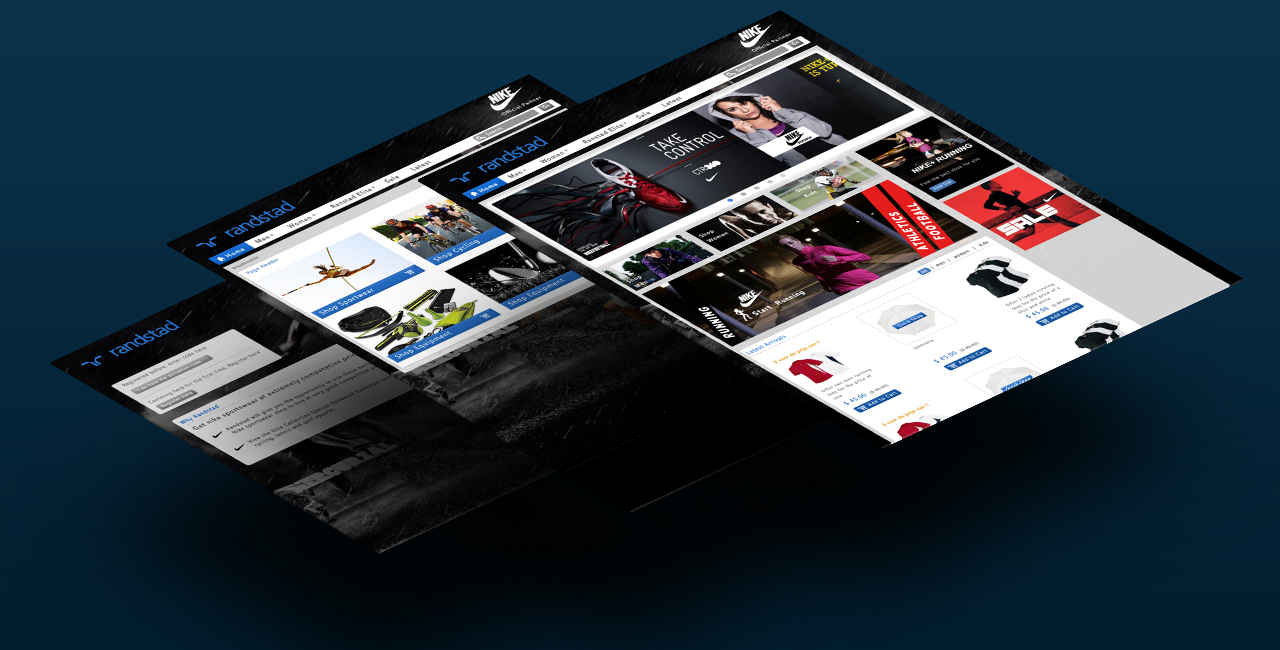
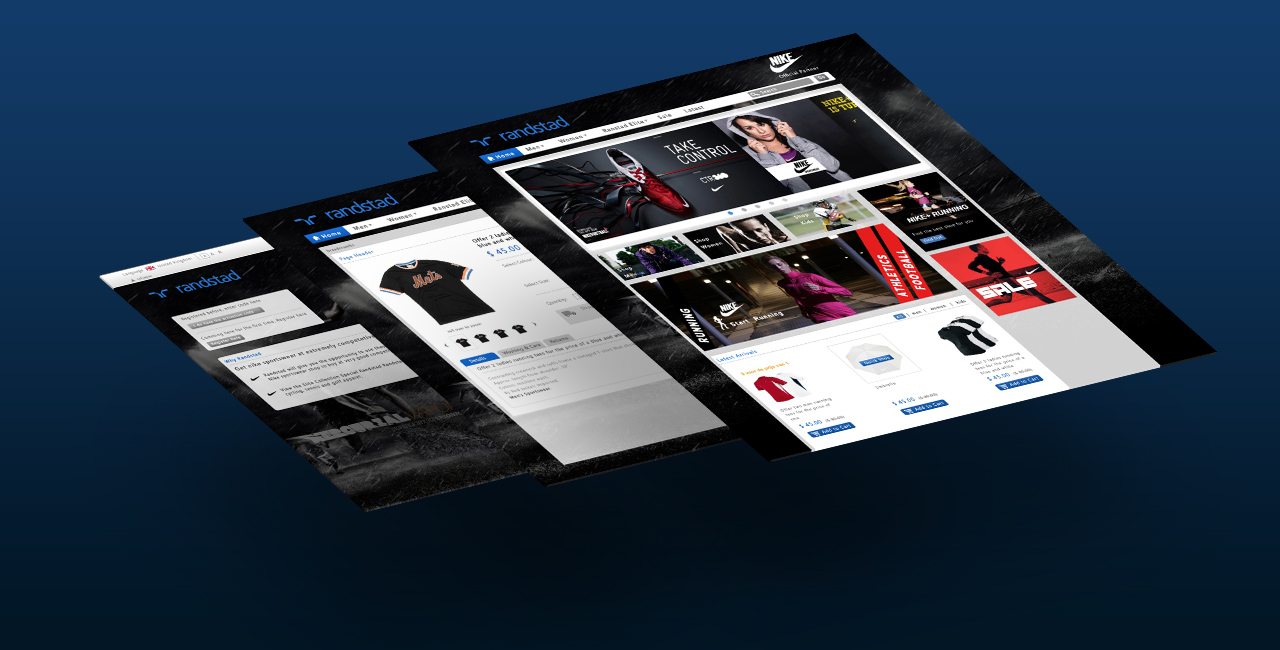
adding one more project

diff --git a/slideshare-emails.html b/slideshare-emails.html
@@ -58,7 +58,7 @@
 
   
   <!-- ========== HEADER SECTION ========== -->
-  <div id="itemwrap" class="private-upload">
+  <div id="itemwrap" class="ss-emails">
     <div class="container">
       <h1>Responsive emails</h1>
       <h2>Slideshare responsive emails</h2>
@@ -70,88 +70,68 @@
   <div id="g">
     <div class="container">
       <div class="row">
-        <h3>Randstad ecommerce web-store</h3>
+        <h3>SlideShare responsive emails</h3>
         <div class="col-lg-7 desc">
           <h4>About This Project</h4>
-          <p>Randstad wanted an internal webstore for its employees so that they can purchase Nike's sports related goodies. In order to provide rewards to its employees users can use the web store to purchase fitness related items. I have currently use the the price (euro) which could be later switched to rewards/points.</p>
+          <p>We have seen a huge shift over years of people using our app on mobile devices. Although we have an mobile optimized web version but we primarily our mail were desktop optimized and experience over mobile was not optimized.</p>
+          <p>I worked with the design team in creation of the <strong>assets/components</strong> of the design. Also as most of our mails have similar componets such as <strong>content cards, user cards</strong> and other components we planned to implement it in such a way that <strong>components can be reused</strong> and creation of new emails is easy.</p>
         </div>
         <div class="col-lg-5 desc desc-b">
           <h4>Project Details</h4>
           <p>
-            <i class="fa fa-user"></i>&nbsp;Eperium<br/>
-            <i class="fa fa-tag"></i>&nbsp;Visual Design, Interaction Design<br/>
-            <i class="fa fa-calendar"></i>&nbsp;Oct 2012<br/>
+            <i class="fa fa-user"></i>&nbsp;SlideShare<br/>
+            <i class="fa fa-tag"></i>&nbsp;Visual Design, UI development<br/>
+            <i class="fa fa-calendar"></i>&nbsp;Jan '12 &ndash; Aug '12<br/>
             <i class="fa fa-globe"></i>&nbsp;www.slideshare.com<br/>
           </p>
         </div>
       </div>
     </div><!-- /container -->
   </div><!-- /g -->
-  
-  <!-- ========== CAROUSEL / DESCRIPTION - DARK GREY SECTION ========== -->
+
+
   <div id="dg">
     <div class="container">
       <div class="row">
-        <div class="col-lg-8 col-lg-offset-2">
-          <h3>Process</h3>
-          <p>Although the store was any <strong>ecommerce store</strong> but we wanted to focus on health and fitness. Also we wanted to users to explore sports and outdoor activities. The checkout was a planned simple and </p>
-          
-        </div>
-      </div>
-      <div class="row">
-        <div class="col-lg-8 col-lg-offset-2">
-          <h4>Final flow for private uploads in My Uploads section</h4>
-          <div id="carousel-example-generic" class="carousel slide" data-keyboard="true"> 
-            <!-- Indicators -->
-            <ol class="carousel-indicators">
-              <li data-target="#carousel-example-generic" data-slide-to="0" class="active"></li>
-              <li data-target="#carousel-example-generic" data-slide-to="1"></li>
-              <li data-target="#carousel-example-generic" data-slide-to="2"></li>
-              <li data-target="#carousel-example-generic" data-slide-to="3"></li>
-              <li data-target="#carousel-example-generic" data-slide-to="4"></li>
-            </ol>
-          
-            <!-- Wrapper for slides -->
-            <div class="carousel-inner">
-              <div class="item active">
-                <img src="assets/img/private-upload/item-01.png" alt="SlideShare myupload public deck">
-              </div>
-              <div class="item">
-                <img src="assets/img/private-upload/item-02.png" alt="Privacy settings confirmation and additional settings">
-              </div>
-              <div class="item">
-                <img src="assets/img/private-upload/item-03.png" alt="Switching private">
-              </div>
-              <div class="item">
-                <img src="assets/img/private-upload/item-04.png" alt="SlideShare switched private">
-              </div>
-              <div class="item">
-                <img src="assets/img/private-upload/item-05.png" alt="Alert message">
-              </div>
-            </div>
+        <p>&nbsp;</p>
+        <div class="col-lg-2"></div>
+          <div class="col-lg-4 desc desc-a">
+            <h4><i class="fa fa-bullseye"></i>&nbsp;The Goal</h4>
+            <p>Ensure email are responsive on all major mobile devices and different mail apps. Increase CTR in the emails for mobile versions. </p>
+            <h4><i class="fa fa-desktop"></i>&nbsp;The Result</h4>
+            <p>We rigorously tested the emails in litmus as well as live testing. Also saw an increase in  engagement in different mobile email clients</p>
           </div>
-        </div>
+          
+          <div class="col-lg-4 desc">
+            <h4><i class="fa fa-bolt"></i>&nbsp;The Idea</h4>
+            <p>Create component that can be reused easily and create mails quickly and iterate on them regularly</p>
+            <h4><i class="fa fa-bar-chart-o"></i> &nbsp;The Statistics</h4>
+            <p>For weekly digest we noticed an <strong>increase of 5%-10% in adjusted CTR in A/B test</strong> with previous design. For contact digest the </p>
+          </div>
+          <div class="col-lg-2"></div>
       </div>
-      <br>
-      <br>
-      <br>  
+    </div><!-- /container -->
+  </div><!-- /g -->
+  
+  <!-- ========== CAROUSEL / DESCRIPTION - DARK GREY SECTION ========== -->
+  <div id="g">
+    <div class="container">
+      <div class="row">
+        <div class="col-lg-8 col-lg-offset-2 left">
+          <p>est</p>
+          
+        </div>
+        
+      </div>
+      
     </div><!-- /container -->
     
-    <div class="container">
 
-      <div class="row">
-        <div class="col-lg-8 col-lg-offset-2">
-          <p>lorep ipsum</p>
-
-        </div>
-      </div>
-
-      <div class="row">
-      <br>
-      <br>
-        <div class="col-lg-4 col-lg-offset-4">
-          <a href="index.html#portfolio" style="font-size:20px;">< <i class="fa fa-th-large"></i> > </a>
-        </div>
+    <div class="row">
+    <br>
+    <br>
+      <div class="col-lg-4 col-lg-offset-4">
+        <a href="index.html#portfolio" style="font-size:20px;">&laquo; <i class="fa fa-th-large"></i> &raquo; </a>
       </div>
     </div>
   </div><!-- /dg -->

diff --git a/randstad-poc.html b/randstad-poc.html
@@ -81,7 +81,7 @@
             <i class="fa fa-user"></i>&nbsp;Eperium<br/>
             <i class="fa fa-tag"></i>&nbsp;Visual Design, Interaction Design<br/>
             <i class="fa fa-calendar"></i>&nbsp;Oct 2012<br/>
-            <i class="fa fa-globe"></i>&nbsp;http://on.be.net/1z57bbo<br/>
+            <i class="fa fa-globe"></i><a href="http://on.be.net/1z57bbo">&nbsp;http://on.be.net/1z57bbo&nbsp;</a><br/>
           </p>
         </div>
       </div>
@@ -92,12 +92,30 @@
   <div id="dg">
     <div class="container">
       <div class="row">
-        <div class="col-lg-8 col-lg-offset-2">
+        <div class="col-lg-8 col-lg-offset-2 left">
           <h3>Process</h3>
           <p>As it was a POC, we wanted to quickly create a POC so that we can quickly visualize the main user flow (<strong>product checkout</strong>). We didn't have any extended user research as we wanted to create a quick mocks and then proceed further.</p>
           <p>As per the project I initially evaluated the existing shop as per the usability guidelines and based upon them I proposed additional functionality to improve the UX of the web shop.</p>
           <img class="centered short" src="assets/img/randstad-retail/randstad-heuristic-evaluation.jpg" >
-          <p class="mar-top-20">Before proceeding to visual design, I created paper mocks and tested them with the team. Also ensured that I correct the major usability flows in the existing design.</p>
+          <p class="mar-top-20">Before proceeding to visual design, I created paper mocks and tested them with the team. Also ensured that I correct the major usability flows in the existing design. As a POC we decided to have a more detailed user research when we implement the design.</p>
+
+
+          <img src="assets/img/randstad-retail/randstad-loginpage.jpg" class="centered" alt="Login page for randstad intranet portal"/><br>
+          <figcaption>
+            <span><i class="fa fa-file-image-o"></i>The shop was exclusively for Randstad customers</span>
+          </figcaption><br><br>
+
+
+          <img src="assets/img/randstad-retail/randstad-homepage.jpg" class="centered" alt="Homepage for randstad internal portal"/><br>
+          <figcaption>
+            <span><i class="fa fa-file-image-o"></i>Home page for the randstad</span>
+          </figcaption><br><br>
+
+
+          <img src="assets/img/randstad-retail/randstad-listpage.jpg" class="centered" alt="Product listing page for a category"/><br>
+          <figcaption>
+            <span><i class="fa fa-file-image-o"></i>Product listing page</span>
+          </figcaption><br><br>
           
         </div>
       </div>

diff --git a/assets/css/inner.css b/assets/css/inner.css
@@ -104,6 +104,21 @@
   /* W3C Markup, IE10 Release Preview */
   background-image: radial-gradient(circle farthest-corner at center bottom, rgba(19, 26, 30, 0.7) 0%, rgba(19, 26, 30, 0.4) 100%), url('../img/pro-free/header-pro-free-bg.jpg');
 }
+.ss-emails {
+  background-size: auto auto, cover;
+  /* IE10 Consumer Preview */
+  background-image: -ms-radial-gradient(center bottom, circle farthest-corner, rgba(19, 26, 30, 0.7) 0%, rgba(19, 26, 30, 0.9) 100%), url('../img/slideshare-emails/top-header-bg.jpg');
+  /* Mozilla Firefox */
+  background-image: -moz-radial-gradient(center bottom, circle farthest-corner, rgba(19, 26, 30, 0.7) 0%, rgba(19, 26, 30, 0.9) 100%), url('../img/slideshare-emails/top-header-bg.jpg');
+  /* Opera */
+  background-image: -o-radial-gradient(center bottom, circle farthest-corner, rgba(19, 26, 30, 0.7) 0%, rgba(19, 26, 30, 0.9) 100%), url('../img/slideshare-emails/top-header-bg.jpg');
+  /* Webkit (Safari/Chrome 10) */
+  background-image: -webkit-gradient(radial, center bottom, 0, center bottom, 561, color-stop(0, #131a1e), color-stop(1, #131a1e));
+  /* Webkit (Chrome 11+) */
+  background-image: -webkit-radial-gradient(center bottom, circle farthest-corner, rgba(19, 26, 30, 0.7) 0%, rgba(19, 26, 30, 0.9) 100%), url('../img/slideshare-emails/top-header-bg.jpg');
+  /* W3C Markup, IE10 Release Preview */
+  background-image: radial-gradient(circle farthest-corner at center bottom, rgba(19, 26, 30, 0.7) 0%, rgba(19, 26, 30, 0.9) 100%), url('../img/slideshare-emails/top-header-bg.jpg');
+}
 #w h3 {
   font-weight: 500;
   color: #333;

diff --git a/assets/less/inner.less b/assets/less/inner.less
@@ -97,6 +97,23 @@
 
 }
 
+.ss-emails {
+    background-size: auto auto, cover;
+    /* IE10 Consumer Preview */ 
+    background-image: -ms-radial-gradient(center bottom, circle farthest-corner, rgba(19,26,30,0.7) 0%, rgba(19,26,30,0.9) 100%), url('../img/slideshare-emails/top-header-bg.jpg');
+    /* Mozilla Firefox */ 
+    background-image: -moz-radial-gradient(center bottom, circle farthest-corner, rgba(19,26,30,0.7) 0%, rgba(19,26,30,0.9) 100%), url('../img/slideshare-emails/top-header-bg.jpg');
+    /* Opera */     
+    background-image: -o-radial-gradient(center bottom, circle farthest-corner, rgba(19,26,30,0.7) 0%, rgba(19,26,30,0.9) 100%), url('../img/slideshare-emails/top-header-bg.jpg');
+    /* Webkit (Safari/Chrome 10) */ 
+    background-image: -webkit-gradient(radial, center bottom, 0, center bottom, 561, color-stop(0, #131a1e), color-stop(1, #131a1e));
+    /* Webkit (Chrome 11+) */ 
+    background-image: -webkit-radial-gradient(center bottom, circle farthest-corner, rgba(19,26,30,0.7) 0%, rgba(19,26,30,0.9) 100%), url('../img/slideshare-emails/top-header-bg.jpg');
+    /* W3C Markup, IE10 Release Preview */ 
+    background-image: radial-gradient(circle farthest-corner at center bottom, rgba(19,26,30,0.7) 0%, rgba(19,26,30,0.9) 100%), url('../img/slideshare-emails/top-header-bg.jpg');
+
+}
+
 #w {
     h3 {
         font-weight: 500;
